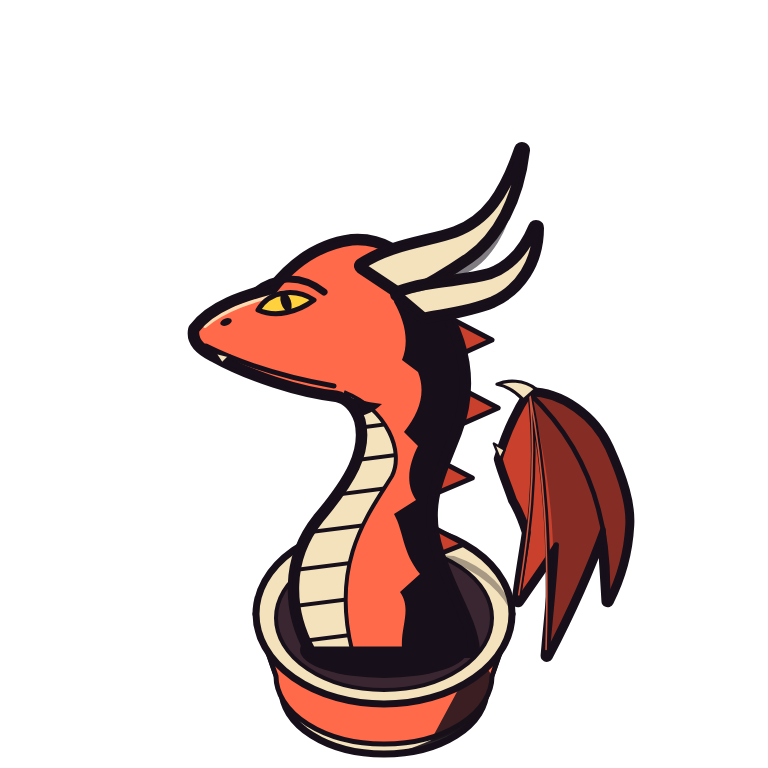
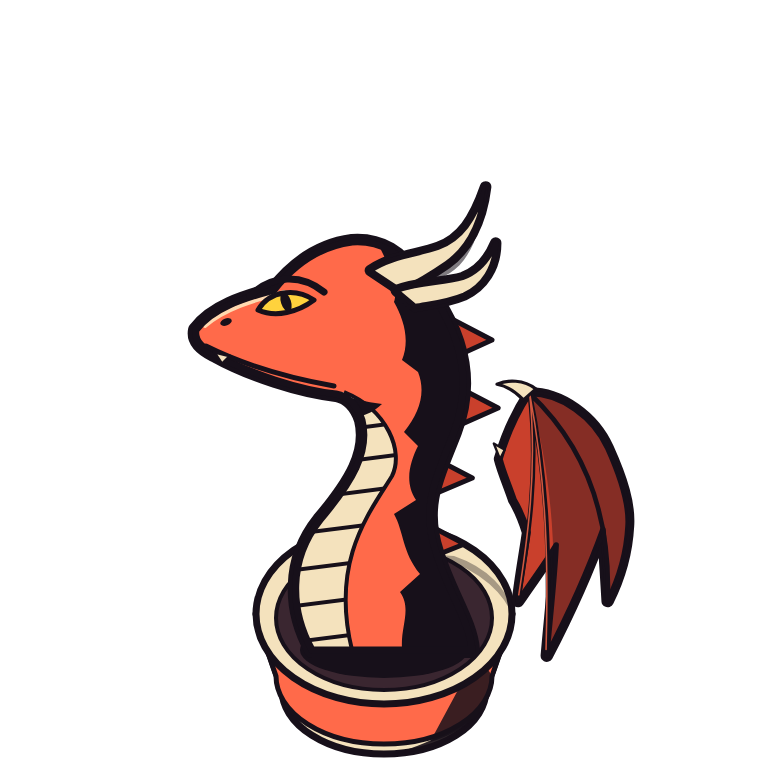
art-src: 龍 v6 — 角縮小，凸顯頭飾
Claude-Session: https://claude.ai/code/session_01YcRvipXLdSARSXJBNmnAqn

Changed region(s): [[0.4688, 0.1875, 0.7188, 0.4375]]

diff --git a/art-src/dragon/build.js b/art-src/dragon/build.js
@@ -29,6 +29,7 @@ const BELLY = 'M312,650 C290,610 288,560 320,520 C352,482 370,452 362,420 C356,4
 const NECK_SPINES = [[452, 336], [462, 404], [440, 474], [436, 540]]
   .map(([x, y], i) => { const s = 1.25 - i * 0.12; return `<path d="M${x - 6},${y - 16 * s} L${x + 32 * s},${y + 4} L${x - 6},${y + 20 * s} Z" fill="${RED2}" stroke="${INK}" stroke-width="5" stroke-linejoin="round"/>`; }).join('');
 const horn = (d, w = OL) => `<path d="${d}" fill="none" stroke="${INK}" stroke-width="${SIL}" stroke-linejoin="round"/><path d="${d}" fill="${CREAM}" stroke="${INK}" stroke-width="${w}" stroke-linejoin="round"/>`;
+const horns = (k, body) => `<g transform="translate(392 282) scale(${k}) translate(-392 -282)">${body}</g>`;   // 角以根部為中心縮放
 const hornShadow = (d) => `<path d="${d}" fill="${INK}" opacity=".55"/>`;
 
 function head({ clipId, eyeScale = 1, mouth = 'smile' }) {
@@ -88,7 +89,7 @@ const HORN_A = 'M362,266 C392,246 428,244 456,234 C488,222 506,196 522,150 C516,
 const HORN_B = 'M398,294 C430,282 462,284 490,276 C512,268 526,252 536,228 C536,262 518,288 492,300 C468,310 444,312 424,316 Z';
 const HORN_A_SH = 'M468,256 C496,236 516,200 522,150 C518,212 500,252 472,270 C448,284 424,292 404,294 C428,282 448,270 468,256 Z';
 
-const t3 = () => `${cup()}${plinth}${wing(0.78)}${NECK_SPINES}${head({ clipId: 'c3' })}${horn(HORN_A)}${horn(HORN_B)}${hornShadow(HORN_A_SH)}`;
+const t3 = () => `${cup()}${plinth}${wing(0.78)}${NECK_SPINES}${head({ clipId: 'c3' })}${horns(0.72, horn(HORN_A) + horn(HORN_B) + hornShadow(HORN_A_SH))}`;
 
 /* ── t1 剛出生：蛋殼 + 小龍頭 + 兩隻小角 ── */
 const t1 = () => {
@@ -121,7 +122,7 @@ const crown = `
     <path d="M372,200 L398,246 L428,214 L440,268 L402,270 Z" fill="${GOLD2}"/>
     <rect x="296" y="262" width="150" height="20" rx="6" fill="${GOLD}" stroke="${INK}" stroke-width="6"/>
     <path d="M372,196 L372,140 M352,160 L392,160" stroke="${INK}" stroke-width="24" stroke-linecap="round"/><path d="M372,196 L372,140 M352,160 L392,160" stroke="${GOLD}" stroke-width="13" stroke-linecap="round"/></g>`;
-const t6 = () => `${cup()}${plinth}${wing(1.12)}${NECK_SPINES}${head({ clipId: 'c6' })}${horn(HORN_A)}${hornShadow(HORN_A_SH)}${crown}
+const t6 = () => `${cup()}${plinth}${wing(1.12)}${NECK_SPINES}${head({ clipId: 'c6' })}${horns(0.58, horn(HORN_A) + hornShadow(HORN_A_SH))}${crown}
   <path d="M330,560 L384,540 L438,560 L430,610 L384,632 L338,610 Z" fill="${GOLD}" stroke="${INK}" stroke-width="6" stroke-linejoin="round" transform="translate(-14 0)"/>
   <path d="M384,540 L438,560 L430,610 L384,632 Z" fill="${GOLD2}" transform="translate(-14 0)"/>
   <circle cx="370" cy="590" r="12" fill="${RED}" stroke="${INK}" stroke-width="4"/>`;
